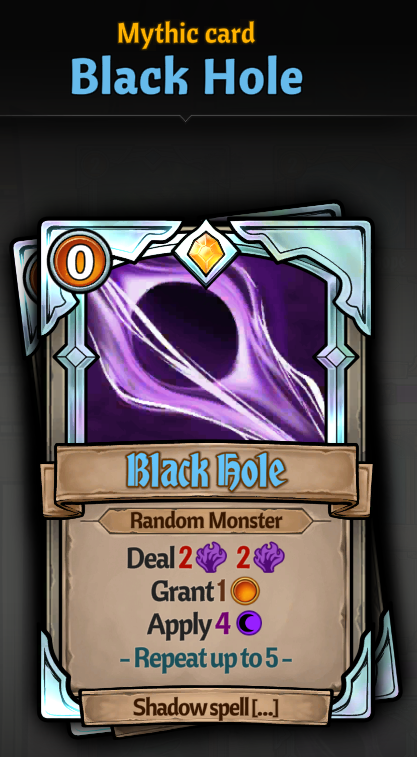
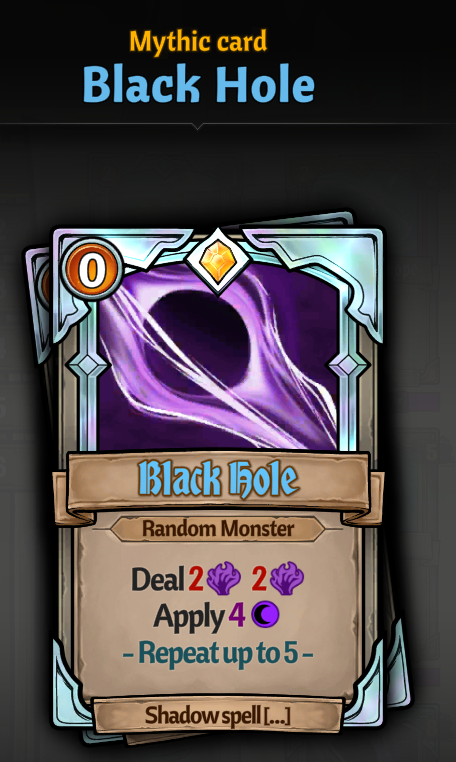
updated version 1.0.2

diff --git a/ATO-Real_Voodoo_Witch_Malukah_TraitMod/obj/Debug/netstandard2.1/TraitMod.AssemblyInfo.cs b/ATO-Real_Voodoo_Witch_Malukah_TraitMod/obj/Debug/netstandard2.1/TraitMod.AssemblyInfo.cs
@@ -13,11 +13,11 @@ using System.Reflection;
 [assembly: System.Reflection.AssemblyCompanyAttribute("com.shazixnar.RealVoodooWitchTraits")]
 [assembly: System.Reflection.AssemblyConfigurationAttribute("Debug")]
 [assembly: System.Reflection.AssemblyDescriptionAttribute("Real Voodoo Witch Traits, made by Shazixnar")]
-[assembly: System.Reflection.AssemblyFileVersionAttribute("1.0.1.0")]
-[assembly: System.Reflection.AssemblyInformationalVersionAttribute("1.0.1")]
+[assembly: System.Reflection.AssemblyFileVersionAttribute("1.0.2.0")]
+[assembly: System.Reflection.AssemblyInformationalVersionAttribute("1.0.2")]
 [assembly: System.Reflection.AssemblyProductAttribute("RealVoodooWitchTraits")]
 [assembly: System.Reflection.AssemblyTitleAttribute("com.shazixnar.RealVoodooWitchTraits")]
-[assembly: System.Reflection.AssemblyVersionAttribute("1.0.1.0")]
+[assembly: System.Reflection.AssemblyVersionAttribute("1.0.2.0")]
 
 // Generated by the MSBuild WriteCodeFragment class.
 

diff --git a/ATO-Real_Voodoo_Witch_Malukah_TraitMod/Plugin.cs b/ATO-Real_Voodoo_Witch_Malukah_TraitMod/Plugin.cs
@@ -10,7 +10,7 @@ namespace TraitMod
     [BepInProcess("AcrossTheObelisk.exe")]
     public class Plugin : BaseUnityPlugin
     {
-        internal const int ModDate = 20231127;
+        internal const int ModDate = 20231129;
         private readonly Harmony harmony = new(PluginInfo.PLUGIN_GUID);
         internal static ManualLogSource Log;
         private void Awake()

diff --git a/ATO-Real_Voodoo_Witch_Malukah_TraitMod/obj/Debug/netstandard2.1/PluginInfo.cs b/ATO-Real_Voodoo_Witch_Malukah_TraitMod/obj/Debug/netstandard2.1/PluginInfo.cs
@@ -4,6 +4,6 @@ namespace TraitMod
     {
         public const string PLUGIN_GUID = "com.shazixnar.RealVoodooWitchTraits";
         public const string PLUGIN_NAME = "RealVoodooWitchTraits";
-        public const string PLUGIN_VERSION = "1.0.1";
+        public const string PLUGIN_VERSION = "1.0.2";
     }
 }

diff --git a/CHANGELOG.md b/CHANGELOG.md
@@ -1,3 +1,7 @@
+# 1.0.2
+
+modify **Vile Lance**'s value and remove useless description about **Black Hole**.
+
 # 1.0.1
 
 fix the README.md description.
